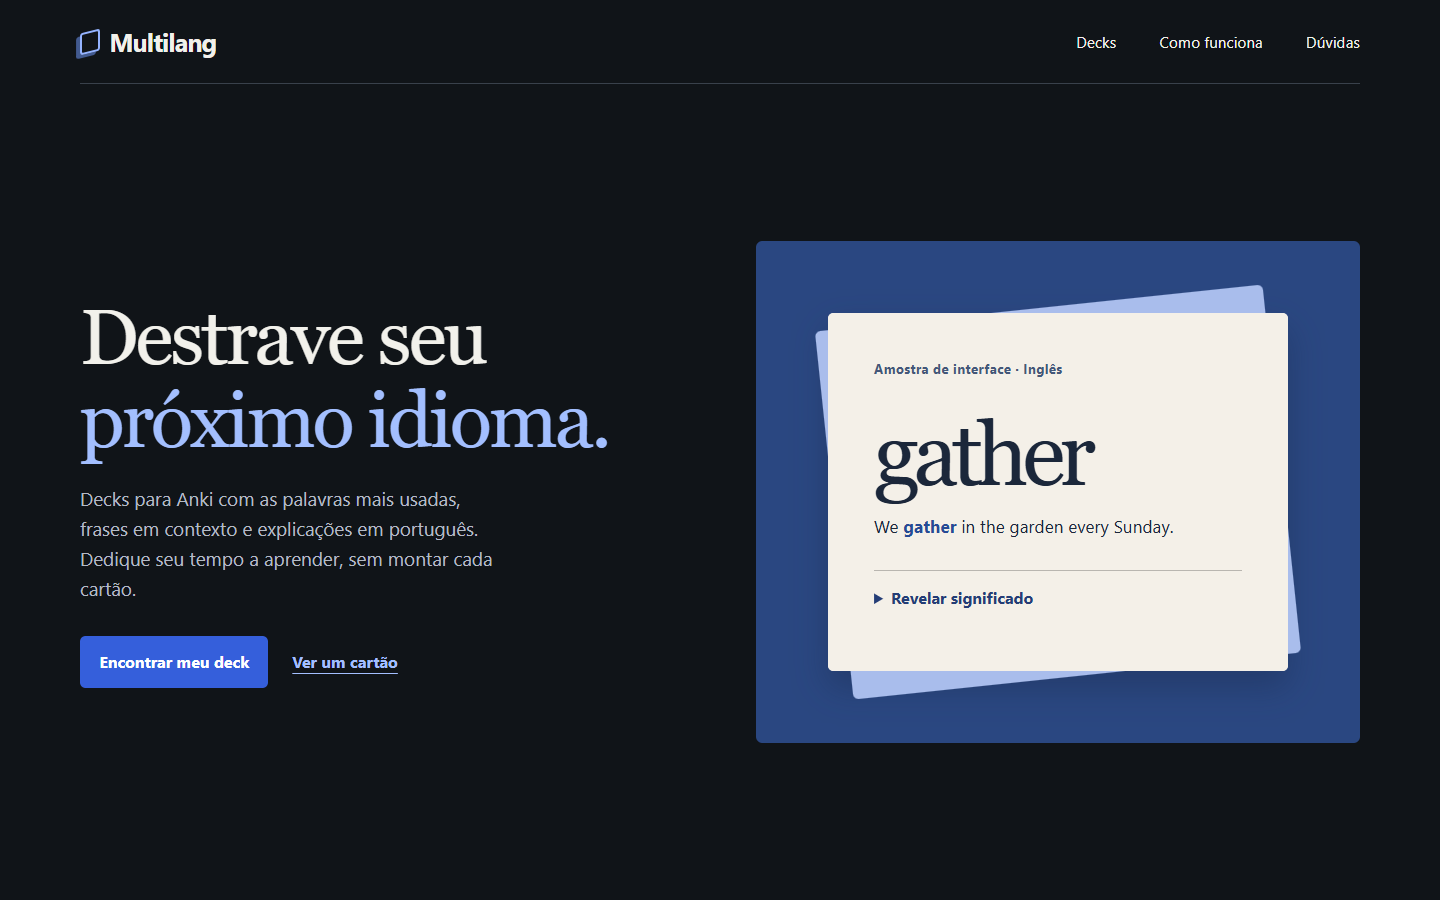
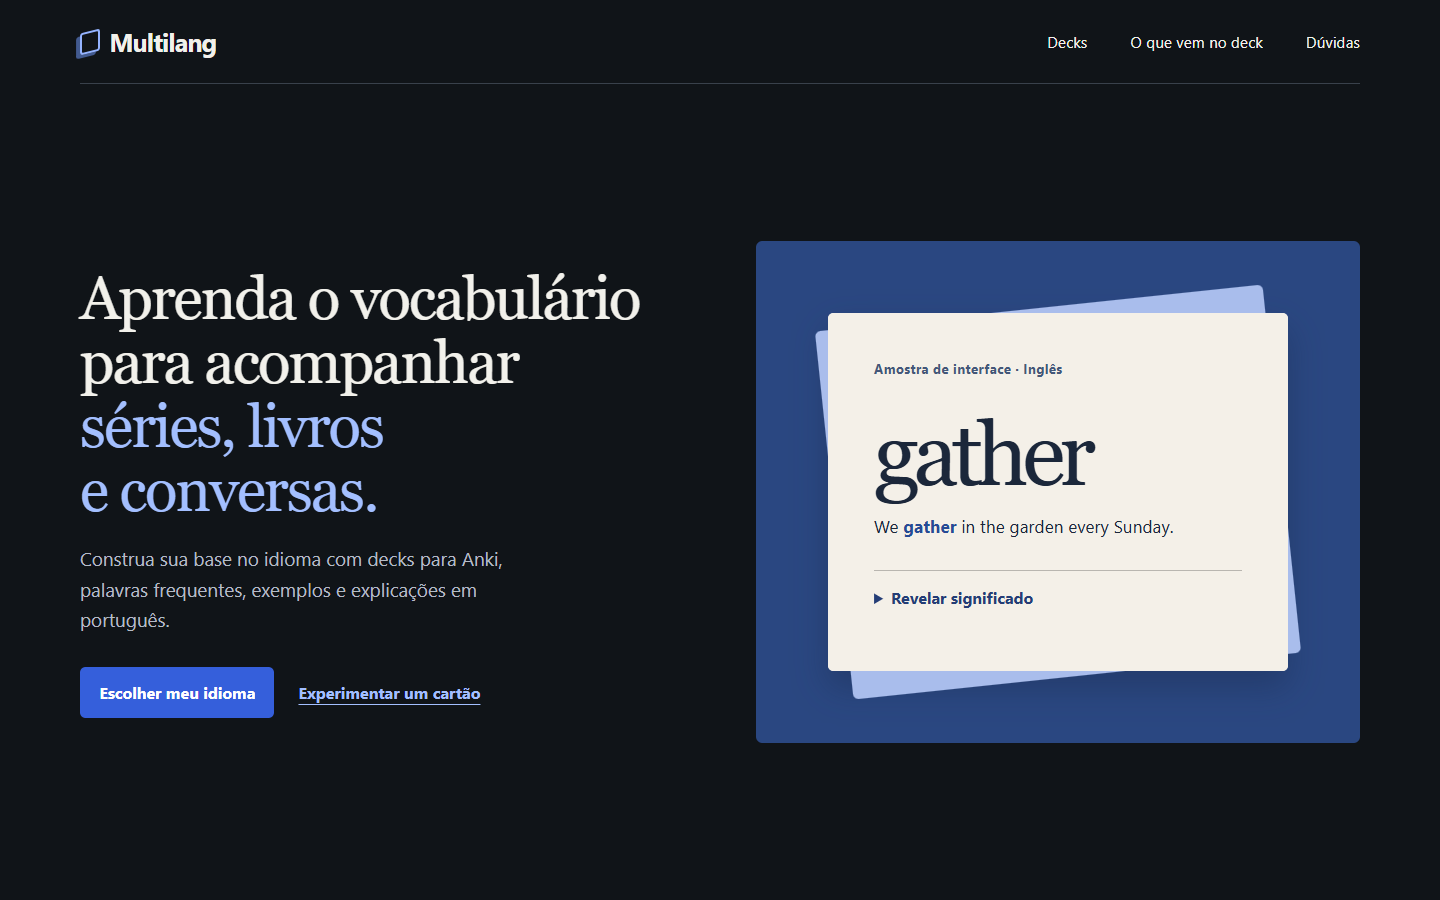
feat(web): adapt deck storefront to language learning goals

Changed region(s): [[0.0312, 0.5289, 0.3438, 0.8089], [0.0312, 0.3111, 0.4688, 0.4978], [0.7188, 0.0311, 0.875, 0.0622]]

diff --git a/frontend/apps/web/index.html b/frontend/apps/web/index.html
@@ -5,7 +5,7 @@
   <meta name="viewport" content="width=device-width, initial-scale=1">
   <meta name="page-type" content="software">
   <meta name="site-kind" content="software">
-  <meta name="description" content="Destrave seu próximo idioma com decks de vocabulário para Anki. Palavras frequentes, frases em contexto e explicações em português para dedicar seu tempo ao estudo.">
+  <meta name="description" content="Aprenda o vocabulário para acompanhar séries, livros e conversas. Decks Multilang para Anki com palavras frequentes, exemplos e explicações em português.">
   <title>Multilang · Decks para aprender idiomas</title>
   <link rel="stylesheet" href="site.css">
 </head>
@@ -13,16 +13,16 @@
   <a class="skip" href="#conteudo">Pular para o conteúdo</a>
   <header class="shell">
     <a href="#conteudo" class="brand" aria-label="Multilang, início"><i aria-hidden="true"></i>Multilang</a>
-    <nav aria-label="Loja"><a href="#catalogo">Decks</a><a href="#metodo">Como funciona</a><a href="#ajuda">Dúvidas</a></nav>
+    <nav aria-label="Loja"><a href="#catalogo">Decks</a><a href="#conteudo-deck">O que vem no deck</a><a href="#ajuda">Dúvidas</a></nav>
   </header>
   <main id="conteudo">
     <section class="hero shell" aria-labelledby="titulo">
       <div class="pitch">
-        <h1 id="titulo">Destrave seu <span>próximo idioma.</span></h1>
-        <p class="intro">Decks para Anki com as palavras mais usadas, frases em contexto e explicações em português. Dedique seu tempo a aprender, sem montar cada cartão.</p>
+        <h1 id="titulo">Aprenda o vocabulário para acompanhar <span>séries, livros e conversas.</span></h1>
+        <p class="intro">Construa sua base no idioma com decks para Anki, palavras frequentes, exemplos e explicações em português.</p>
         <div class="hero-actions">
-          <a class="action" href="#catalogo">Encontrar meu deck</a>
-          <a class="textlink" href="#amostra">Ver um cartão</a>
+          <a class="action" href="#catalogo">Escolher meu idioma</a>
+          <a class="textlink" href="#amostra">Experimentar um cartão</a>
         </div>
       </div>
       <div class="sample" id="amostra" tabindex="-1" aria-label="Demonstração de um cartão">
@@ -41,8 +41,8 @@
     <section class="catalog">
       <div class="shell split" id="catalogo" tabindex="-1">
         <div>
-          <h2>Escolha o idioma.<br>Encontre seu deck.</h2>
-          <p class="bodycopy">Construa sua base com o vocabulário frequente do idioma que você quer aprender. Confira o conteúdo e a amostra de cada edição antes de escolher.</p>
+          <h2>Qual idioma você<br>quer aprender?</h2>
+          <p class="bodycopy">Encontre uma edição para construir seu vocabulário no idioma escolhido, com apoio em português do Brasil. Compare o conteúdo, experimente a amostra e escolha seu deck.</p>
         </div>
         <div class="availability">
           <h3>Catálogo em preparação</h3>
@@ -52,14 +52,29 @@
     </section>
     <section id="metodo" class="shell split" aria-labelledby="titulo-metodo">
       <div>
-        <h2 id="titulo-metodo">Seu tempo é para<br>aprender o idioma.</h2>
-        <p class="bodycopy">Selecionar palavras, preparar exemplos e organizar cartões dá trabalho. Um deck pronto reúne esse material para você se concentrar no estudo.</p>
+        <h2 id="titulo-metodo">Construa a base<br>para entender mais.</h2>
+        <p class="bodycopy">Quando faltam palavras, fica difícil acompanhar o que você ouve e lê. Os decks de frequência da Multilang organizam esse estudo para você ampliar seu vocabulário e continuar explorando o idioma.</p>
       </div>
       <dl class="benefits">
-        <div><dt>Vocabulário com direção</dt><dd>Comece pelas palavras frequentes para construir sua base e acompanhar o que encontra nas leituras e conversas.</dd></div>
-        <div><dt>Entenda a palavra na frase</dt><dd>Exemplos e explicações em português ajudam a estudar o sentido em contexto, além da tradução isolada.</dd></div>
-        <div><dt>Revise com o Anki</dt><dd>A repetição espaçada organiza as próximas revisões. Você estuda o deck no Anki e continua praticando com o idioma fora dele.</dd></div>
+        <div><dt>Priorize as palavras frequentes</dt><dd>Concentre seu estudo no vocabulário que aparece com frequência. A ficha de cada edição apresentará a seleção e o conteúdo incluído.</dd></div>
+        <div><dt>Estude com apoio em português</dt><dd>Use os exemplos, as definições e as traduções para aprender o significado e o uso do vocabulário que está estudando.</dd></div>
+        <div><dt>Reforce o que aprendeu</dt><dd>O Anki organiza as próximas revisões conforme suas respostas. Combine esse estudo com séries, livros, escuta e prática no idioma.</dd></div>
       </dl>
+    </section>
+    <section id="conteudo-deck" class="included" aria-labelledby="titulo-conteudo">
+      <div class="shell split">
+        <div>
+          <h2 id="titulo-conteudo">O que acompanha<br>seu deck</h2>
+          <p class="bodycopy">Um material organizado para estudar no Anki. Antes da compra, você poderá conferir a quantidade de palavras e cartões, a amostra e os recursos de cada edição.</p>
+          <a class="textlink" href="#amostra">Experimentar um cartão</a>
+        </div>
+        <dl class="benefits">
+          <div><dt>Vocabulário organizado</dt><dd>Conteúdo dividido conforme a proposta da edição, com o idioma de estudo, o nível e os pré-requisitos indicados na ficha.</dd></div>
+          <div><dt>Exemplos e explicações</dt><dd>Palavras acompanhadas de definições, frases de exemplo e traduções em português do Brasil.</dd></div>
+          <div><dt>Áudio de palavras e frases</dt><dd>A ficha e a amostra identificarão os áudios incluídos na edição e como foram produzidos.</dd></div>
+          <div><dt>Arquivo para Anki</dt><dd>Download em formato .apkg, com orientações para importar o deck e começar suas revisões no Anki.</dd></div>
+        </dl>
+      </div>
     </section>
     <section id="ajuda" class="shell split" aria-labelledby="titulo-ajuda">
       <h2 id="titulo-ajuda">Antes de escolher<br>seu deck</h2>
@@ -67,7 +82,8 @@
         <details><summary>Os decks têm explicações em português?</summary><p>Sim. As edições da Loja terão explicações e traduções em português do Brasil. As palavras e frases serão do idioma que você escolher estudar.</p></details>
         <details><summary>Como vou estudar no Anki?</summary><p>Depois de baixar o arquivo .apkg do seu baralho, importe-o no Anki. As revisões acontecem no próprio aplicativo.</p></details>
         <details><summary>O deck é um curso completo de idioma?</summary><p>O deck é uma ferramenta para estudar e revisar vocabulário. Combine as revisões com escuta, leitura e prática do idioma. O ritmo de aprendizado depende da sua rotina e do contato com a língua.</p></details>
-        <details><summary>Por que escolher um deck pronto?</summary><p>Para dedicar seu tempo às revisões e à prática, sem selecionar e montar cada cartão. Antes da compra, confira a amostra e o conteúdo para decidir se a edição atende ao seu estudo.</p></details>
+        <details><summary>Por que escolher um deck pronto?</summary><p>Para começar com uma seleção organizada de vocabulário, exemplos e explicações. Você pode se concentrar nas revisões e no contato com o idioma, sem preparar cada cartão.</p></details>
+        <details><summary>Como escolher o deck certo para mim?</summary><p>Confira o idioma, o objetivo e os pré-requisitos da edição. Experimente os cartões da amostra e verifique se o vocabulário corresponde ao que você precisa estudar. A ficha também informará o preço total e as condições de entrega e atualização.</p></details>
         <details><summary>Quais idiomas posso comprar hoje?</summary><p>A loja está em preparação. O catálogo mostrará cada idioma quando houver uma edição pronta para compra.</p></details>
       </div>
     </section>

diff --git a/frontend/apps/web/site.css b/frontend/apps/web/site.css
@@ -28,9 +28,11 @@ nav a:hover, footer a:hover { color: var(--blue); }
 .sample-label { font-size: .81rem; font-weight: 700; }
 h1, h2, h3, p { margin-top: 0; }
 h1, h2, .word { font-family: "Iowan Old Style", Georgia, serif; font-weight: 400; }
-h1 { font-size: clamp(3rem, 5.4vw, 5.2rem); line-height: 1.06; letter-spacing: -.035em; margin-bottom: 1.4rem; text-wrap: balance; }
+h1 { font-size: clamp(2.6rem, 4.2vw, 4.2rem); line-height: 1.06; letter-spacing: -.035em; margin-bottom: 1.4rem; text-wrap: balance; }
 h1 span { display: block; color: var(--blue); }
 .intro, .bodycopy, .availability p, .faq p { color: var(--muted); line-height: 1.6; max-width: 42ch; }
+.included .bodycopy { margin-bottom: 1.5rem; }
+.included .textlink { display: inline-flex; align-items: center; min-height: 48px; }
 .intro { font-size: 1.18rem; margin-bottom: 2rem; }
 .hero-actions { display: flex; align-items: center; flex-wrap: wrap; gap: .75rem 1.5rem; }
 .hero-actions .textlink { display: inline-flex; align-items: center; min-height: 48px; }
@@ -51,6 +53,7 @@ summary { cursor: pointer; }
 .opened, .flip[open] .closed { display: none; }
 .flip[open] .opened { display: inline; }
 .catalog { border-block: 1px solid var(--line); background: #181e25; }
+.included { border-block: 1px solid var(--line); background: #181e25; }
 .split { padding-block: clamp(3.3rem, 6vw, 7rem); }
 h2 { font-size: clamp(2.5rem, 4vw, 4.1rem); line-height: 1.05; letter-spacing: -.035em; margin-bottom: 1rem; }
 h3 { font-size: 1.4rem; letter-spacing: -.03em; }
@@ -62,7 +65,6 @@ h3 { font-size: 1.4rem; letter-spacing: -.03em; }
 .benefits div { border-top: 1px solid var(--line); padding-block: 1.5rem; }
 .benefits dt { margin-bottom: .65rem; font-size: 1.2rem; font-weight: 650; }
 .benefits dd { margin: 0; color: var(--muted); line-height: 1.6; max-width: 44ch; }
-#metodo { border-bottom: 1px solid var(--line); }
 .faq details { border-top: 1px solid var(--line); }
 .faq summary { padding-block: 1rem; }
 .faq p { margin-bottom: 1rem; }

diff --git a/docs/product-interface.md b/docs/product-interface.md
@@ -122,11 +122,32 @@ Não substituir a fila existente nem executar comandos construídos do formulár
 
 ## Oferta e copy de lançamento
 
-O benefício central é construir vocabulário para compreender outro idioma, com
-contexto e apoio em português, economizando o preparo manual dos cartões. A chamada
-da Loja é "Destrave seu próximo idioma." O botão principal "Encontrar meu deck" leva
-ao catálogo; "Ver um cartão" oferece uma demonstração sem cadastro. O catálogo vazio
+O benefício central é construir vocabulário para acompanhar séries, livros e conversas
+no idioma estudado, com contexto e apoio em português. A chamada aprovada para a Loja
+é "Aprenda o vocabulário para acompanhar séries, livros e conversas."
+O texto de apoio é "Construa sua base no idioma com decks para Anki, palavras
+frequentes, exemplos e explicações em português."
+O botão principal "Escolher meu idioma" leva ao catálogo; "Experimentar um cartão"
+oferece uma demonstração sem cadastro. O catálogo vazio
 informa que ainda não há decks à venda, sem simular estoque ou compra.
+
+A página apresenta o catálogo, explica o papel do vocabulário na compreensão,
+detalha os componentes dos decks e responde às dúvidas de compra. Economia de
+preparo é um benefício secundário, não a promessa principal. A demonstração atual
+continua identificada como amostra de interface; não representa uma edição à venda.
+
+Cada página de produto deverá seguir esta sequência quando houver uma edição aprovada:
+
+1. Nome específico do idioma e objetivo, por exemplo "Vocabulário essencial de inglês".
+2. Público, pré-requisitos, seleção do vocabulário e conteúdo incluído. Separar
+   identidades lexicais e cartões; não usar faixas de frequência como certificados.
+3. Amostra real daquela versão, com frente, verso e os áudios efetivamente incluídos.
+4. Preço final em BRL, compra avulsa, entrega e condições de atualização junto à compra.
+5. Dúvidas sobre importação, escolha da edição, estudo e atendimento.
+
+Catálogo com busca e filtros por idioma e tipo deve refletir as edições publicadas.
+Não oferecer idiomas sem edição aprovada nem adicionar produtos fictícios para
+preencher a vitrine. Depoimentos entram após existirem relatos próprios autorizados.
 
 A página de cada edição publicada deverá mostrar exemplos reais daquela
 versão, áudio quando incluído, conteúdo, preço total e uma ação de compra. Depoimentos
